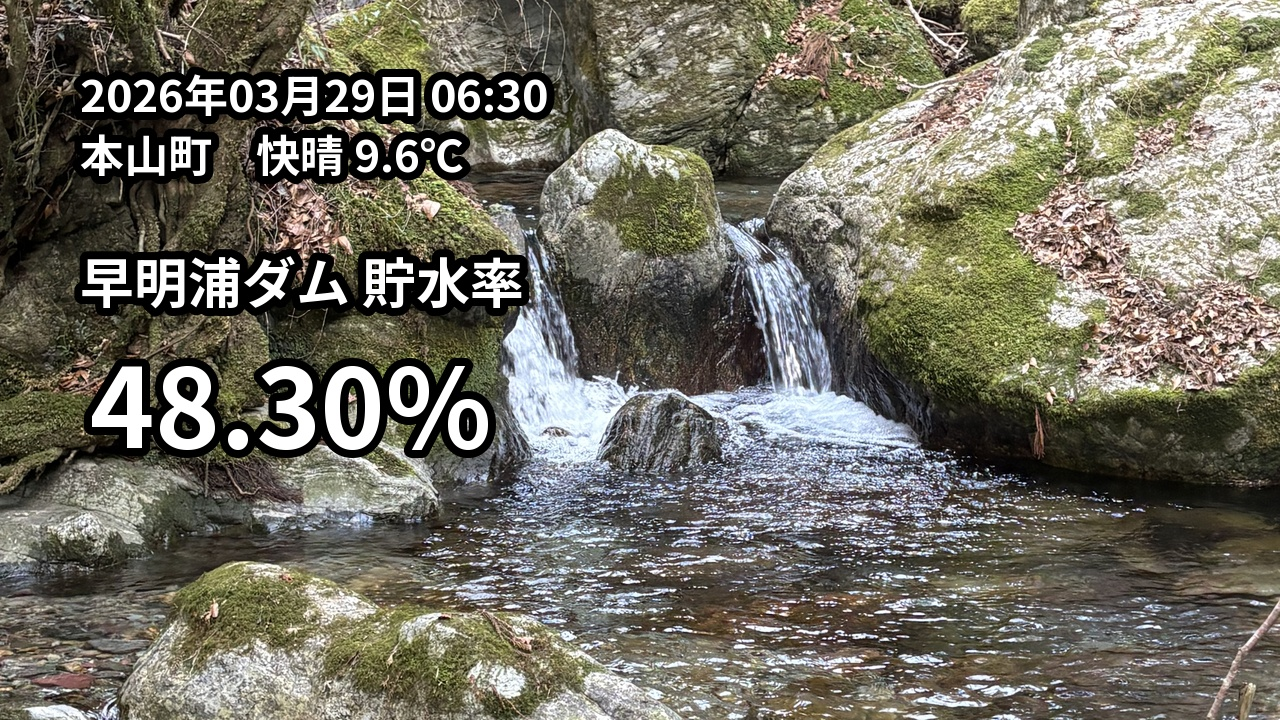
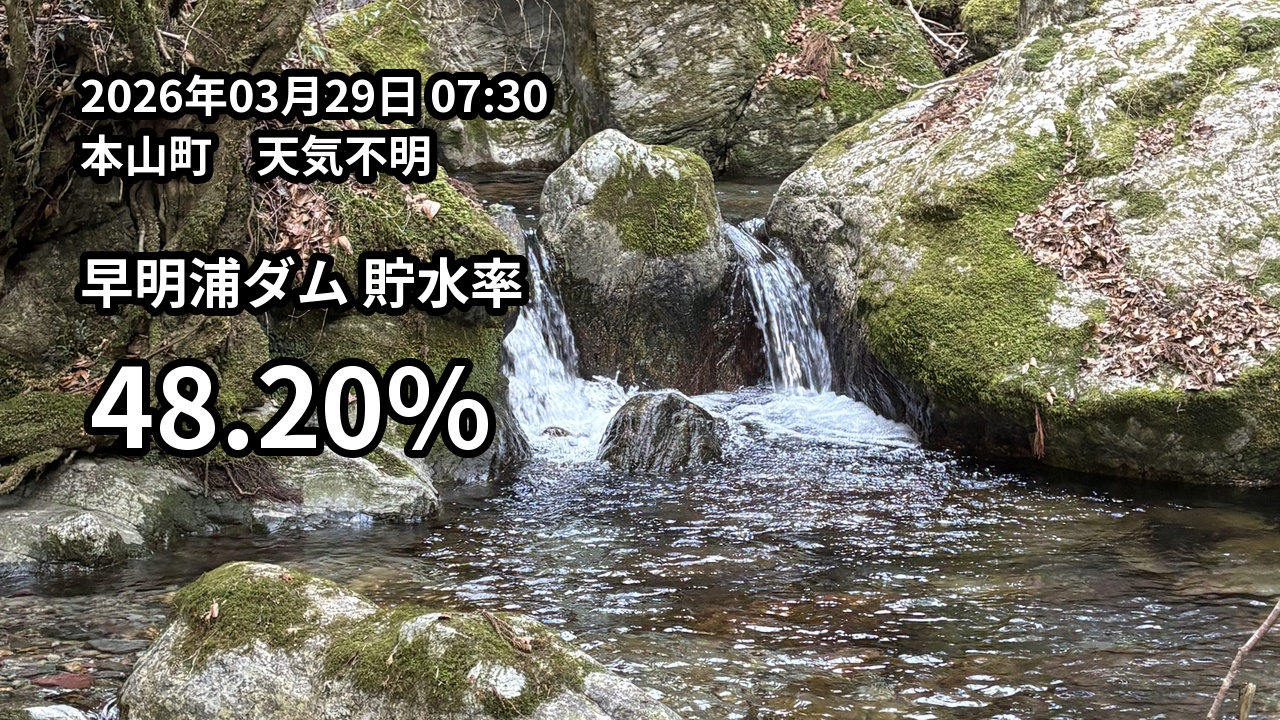
Update daily image

Changed region(s): [[0.1875, 0.1528, 0.375, 0.275], [0.1875, 0.5194, 0.25, 0.6417], [0.3438, 0.0917, 0.375, 0.1528]]

diff --git a/index.html b/index.html
@@ -10,6 +10,6 @@
   </style>
 </head>
 <body>
-  <img src="result.jpg?v=202603290630" alt="早明浦ダム 貯水率" />
+  <img src="result.jpg?v=202603290730" alt="早明浦ダム 貯水率" />
 </body>
 </html>
